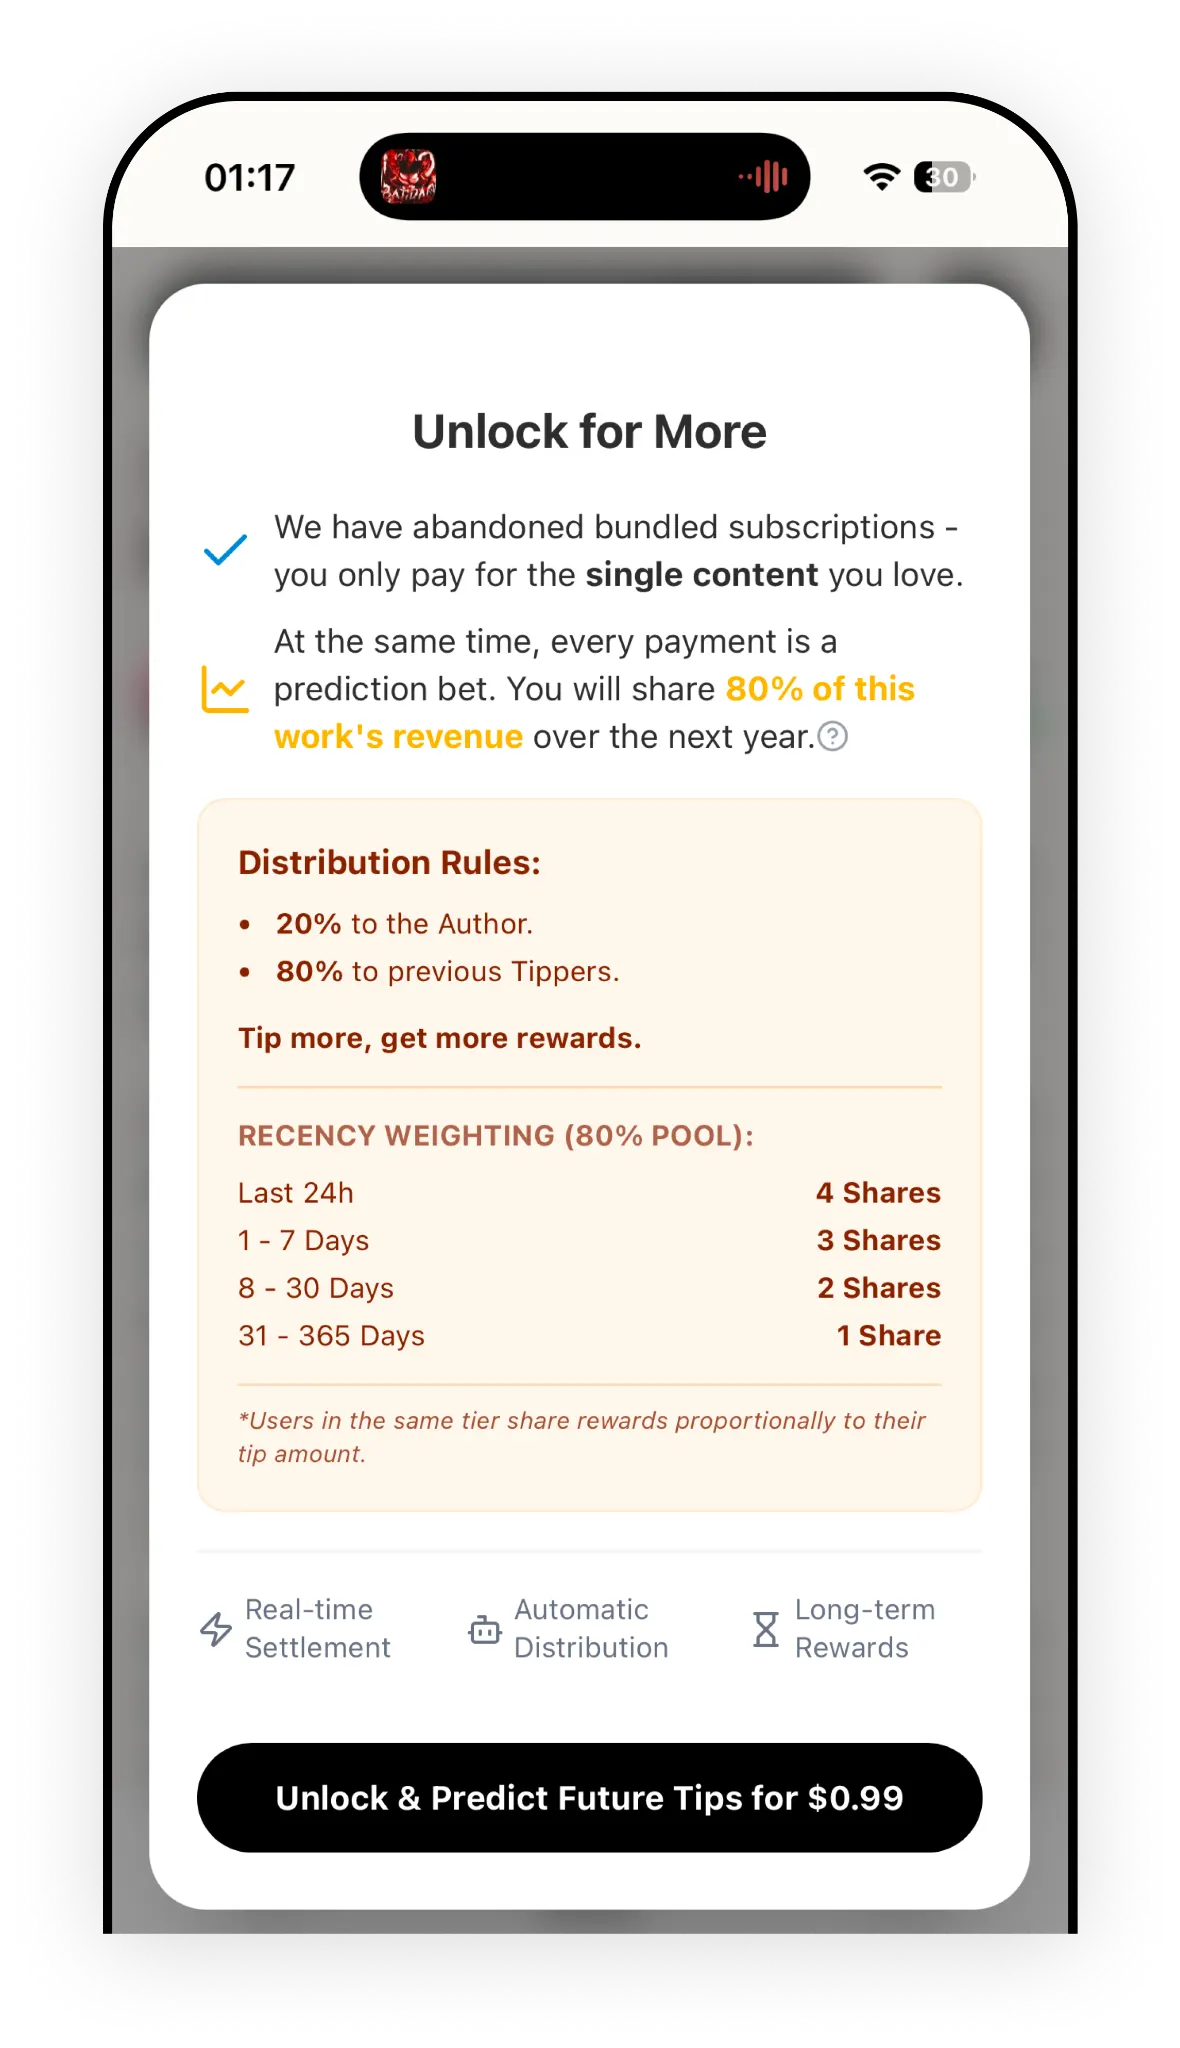
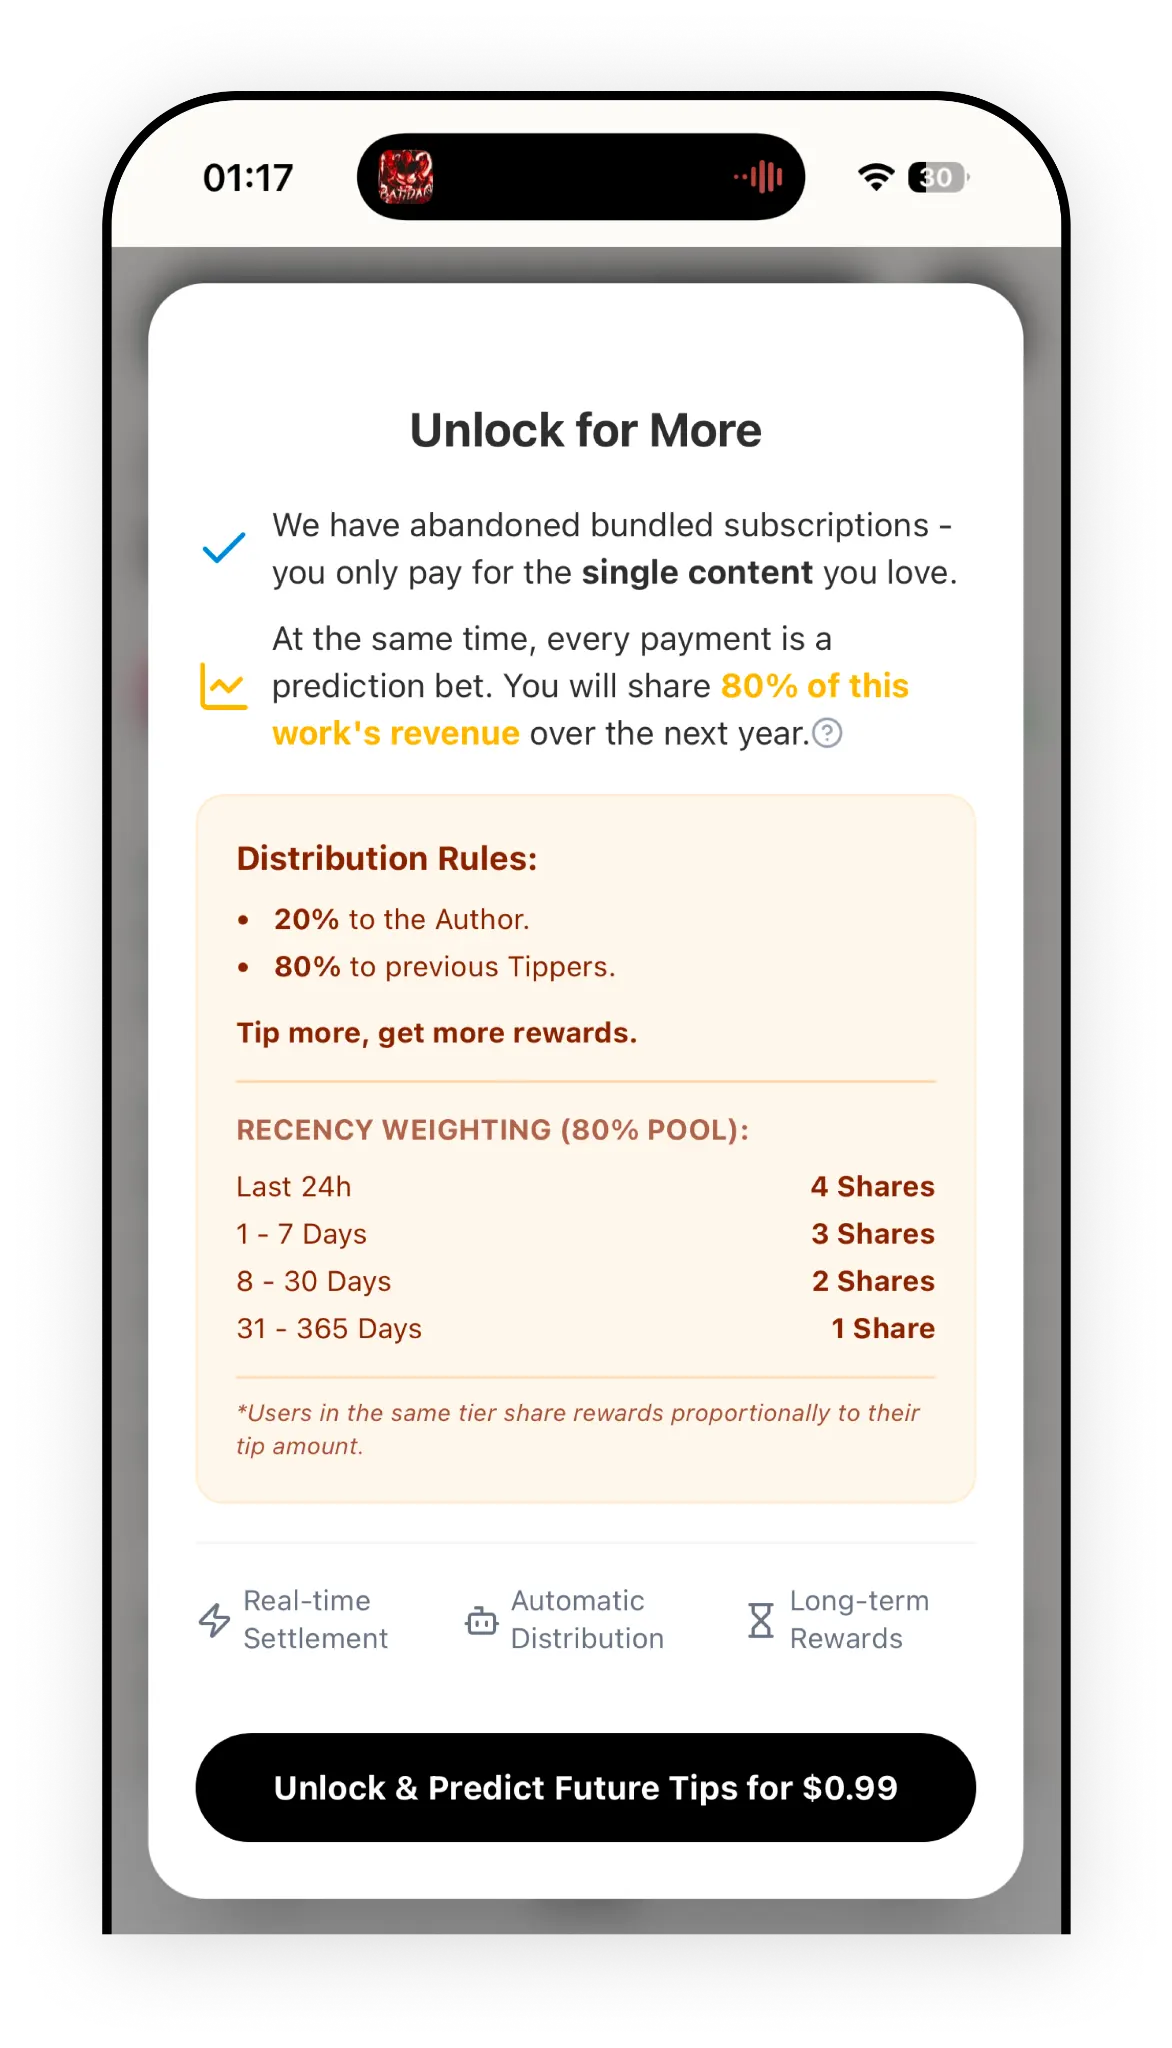
Checkpoint: Удалил весь div с телефоном (Phone Mockup) из секции "The Sharing Chain" в Model.tsx. Теперь в этой секции остаётся только текстовый контент справа с описанием "Survivors", "Juniors" и информацией о распределении платежей. Изменение применено только к PC версии.

diff --git a/client/src/pages/Model.tsx b/client/src/pages/Model.tsx
@@ -241,38 +241,6 @@ incentivizing early discovery and dissemination.
         <section className="py-24 bg-gradient-to-b from-[#F0FDF4] to-white">
           <div className="container">
             <div className="grid md:grid-cols-2 gap-16 items-center max-w-6xl mx-auto">
-              {/* Phone Mockup */}
-              <div className="relative mx-auto w-full max-w-[320px]">
-                <div className="relative rounded-[3rem] overflow-hidden border-8 border-gray-800 bg-white shadow-2xl aspect-[9/19]">
-                  {/* Mockup Content */}
-                  <div className="p-6 h-full flex flex-col">
-                    <div className="flex items-center gap-2 mb-6">
-                      <div className="w-8 h-8 rounded-full bg-gray-200"></div>
-                      <div className="h-4 w-24 bg-gray-100 rounded"></div>
-                    </div>
-                    
-                    <div className="bg-[#F6F6F6] p-4 rounded-2xl mb-4">
-                      <h4 className="font-bold mb-2">Support & Earn</h4>
-                      <p className="text-xs text-gray-500 mb-4">Your tip supports the author and previous backers.</p>
-                      <div className="flex justify-between gap-2 mb-4">
-                        <div className="flex-1 py-2 bg-white rounded-lg text-center text-sm font-bold shadow-sm border border-gray-100">$1</div>
-                        <div className="flex-1 py-2 bg-[#6FF000] rounded-lg text-center text-sm font-bold shadow-sm border border-[#6FF000]">$5</div>
-                        <div className="flex-1 py-2 bg-white rounded-lg text-center text-sm font-bold shadow-sm border border-gray-100">$10</div>
-                      </div>
-                      <div className="w-full py-2 bg-white rounded-lg px-3 text-xs text-gray-400 border border-gray-100 mb-2">
-                        $ Custom Amount
-                      </div>
-                    </div>
-                    
-                    <div className="mt-auto">
-                      <div className="w-full h-12 bg-black rounded-full text-white flex items-center justify-center font-bold text-sm">
-                        Confirm Support
-                      </div>
-                    </div>
-                  </div>
-                </div>
-              </div>
-              
               <div>
                 <h2 className="text-4xl font-bold mb-8 font-serif">The sharing chain</h2>
                 <p className="text-gray-500 text-sm mb-12 uppercase tracking-widest">How It Works</p>

diff --git a/client/src/components/BusinessModel.tsx b/client/src/components/BusinessModel.tsx
@@ -42,7 +42,7 @@ export default function BusinessModel() {
 
         <div className="relative w-full flex justify-center">
             <img 
-              src="/images/sharing-chain-phone.png" 
+              src="/images/00.png" 
               alt="Support & Earn" 
               className="h-auto drop-shadow-2xl" 
               style={{width: `${IMAGE_CONFIG.unlockForMore.width}px`}} 
@@ -155,7 +155,7 @@ export default function BusinessModel() {
           }}
         >
             <img 
-              src="/images/sharing-chain-phone.png" 
+              src="/images/00.png" 
               alt="Support & Earn" 
               className="w-full h-auto drop-shadow-2xl"
             />
